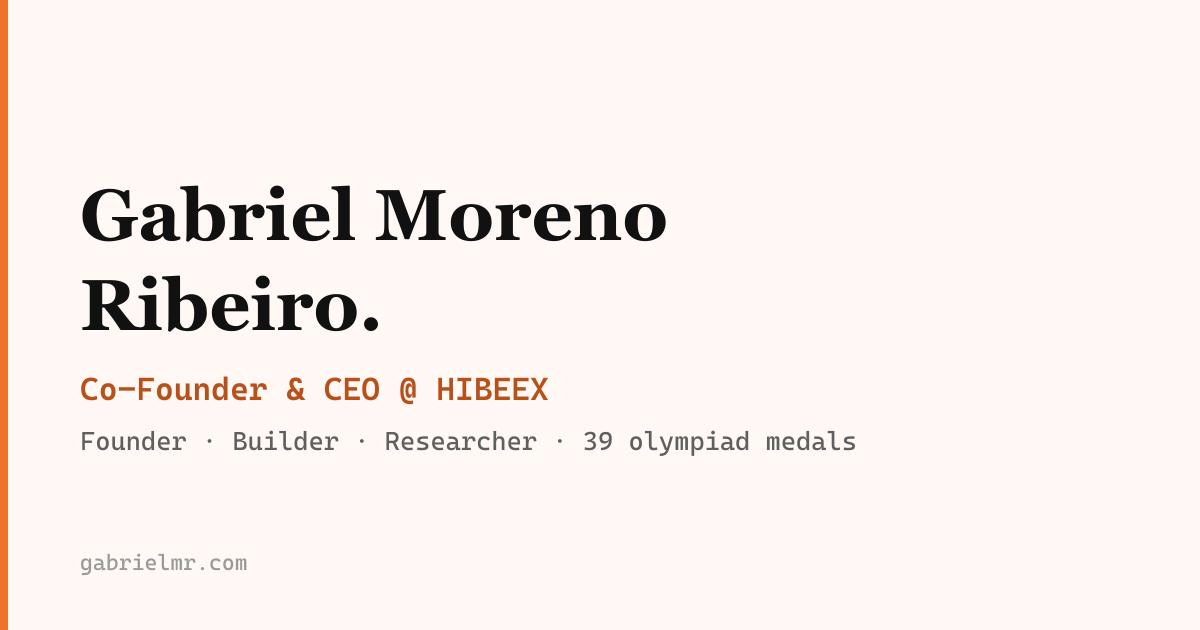
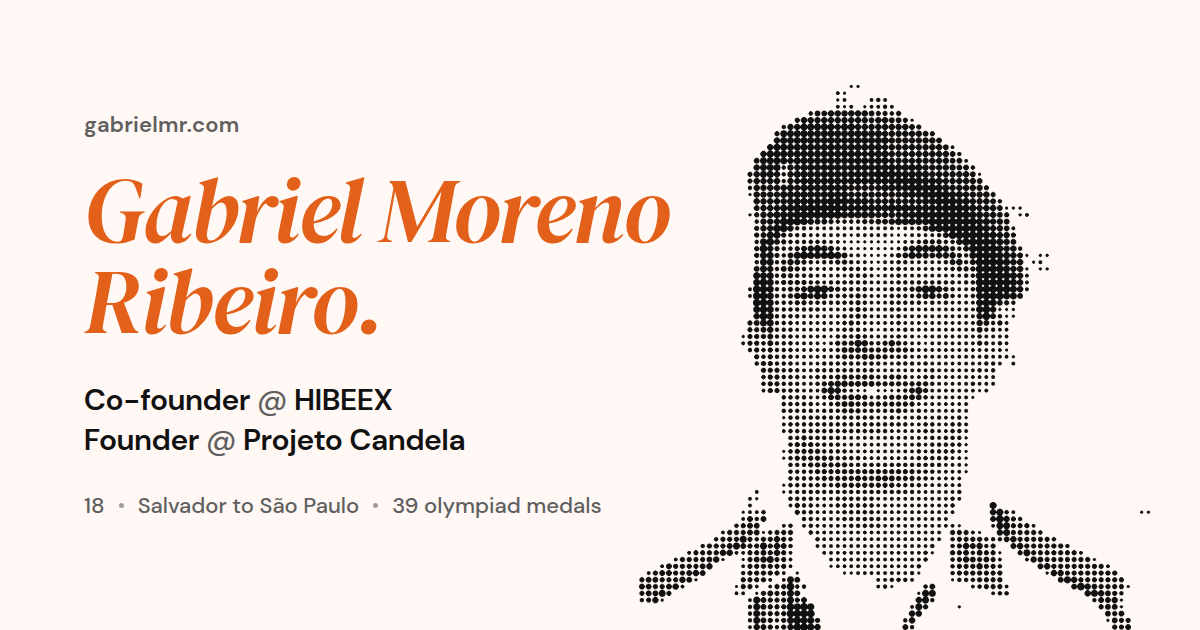
Preview de link novo: co-founder e retrato em pontos
- og-image refeito: nome em serif itálico, "Co-founder @ HIBEEX" e
  "Founder @ Projeto Candela", e à direita o retrato feito de pontos
  (a foto das medalhas, sem o fundo). Nada de CEO.
- URL da imagem com ?v= para WhatsApp e LinkedIn buscarem a nova.
- "founding CEO" sai do texto da GSAT.

Claude-Session: https://claude.ai/code/session_01HKydPjNeT9ZWoKkHj3g4WT

diff --git a/index.html b/index.html
@@ -82,8 +82,8 @@
       name="twitter:description"
       content="Building Backoffice AI for Small and Medium Businesses @ HIBEEX. Founder @ Projeto Candela."
     />
-    <meta name="twitter:image" content="https://gabrielmr.com/og-image.png" />
-    <meta name="twitter:image:alt" content="Gabriel Moreno Ribeiro" />
+    <meta name="twitter:image" content="https://gabrielmr.com/og-image.png?v=20261020" />
+    <meta name="twitter:image:alt" content="Gabriel Moreno Ribeiro, co-founder of HIBEEX and founder of Projeto Candela, with a dot portrait" />
 
     <meta property="og:url" content="https://gabrielmr.com" />
     <meta property="og:type" content="website" />
@@ -92,10 +92,10 @@
       property="og:description"
       content="Building Backoffice AI for Small and Medium Businesses @ HIBEEX. Founder @ Projeto Candela."
     />
-    <meta property="og:image" content="https://gabrielmr.com/og-image.png" />
+    <meta property="og:image" content="https://gabrielmr.com/og-image.png?v=20261020" />
     <meta property="og:image:width" content="1200" />
     <meta property="og:image:height" content="630" />
-    <meta property="og:image:alt" content="Gabriel Moreno Ribeiro" />
+    <meta property="og:image:alt" content="Gabriel Moreno Ribeiro, co-founder of HIBEEX and founder of Projeto Candela, with a dot portrait" />
     <meta property="og:site_name" content="Gabriel Moreno Ribeiro" />
 
     <meta itemprop="name" content="Gabriel Moreno Ribeiro" />

diff --git a/src/constants/work.ts b/src/constants/work.ts
@@ -31,7 +31,7 @@ export const work = [
       },
       modalData: {
         title: "GSAT Education",
-        desc: "EdTech startup for standardized test prep. I built the platform from scratch as founding CEO: product, engineering and go-to-market.",
+        desc: "EdTech startup for standardized test prep. I built the platform from scratch as founder: product, engineering and go-to-market.",
         infoHeading: "Technologies Used",
         infoArr: [
           "React",
